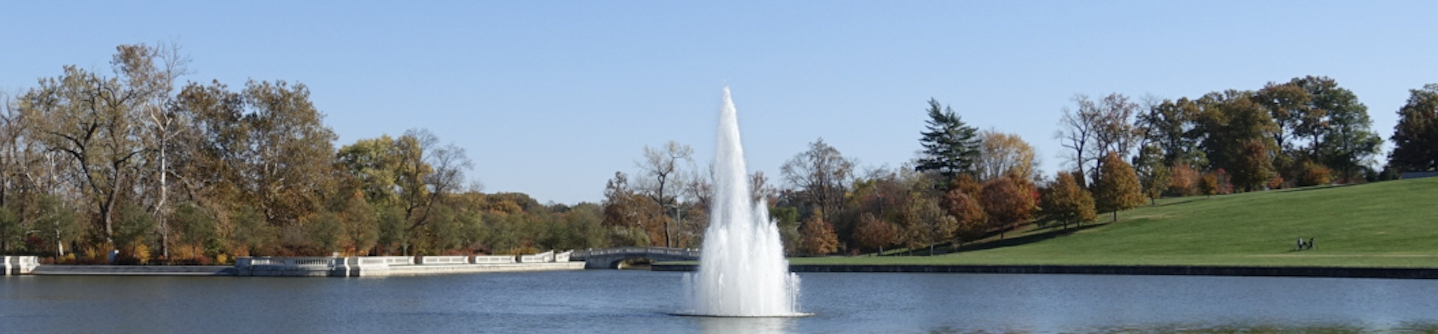
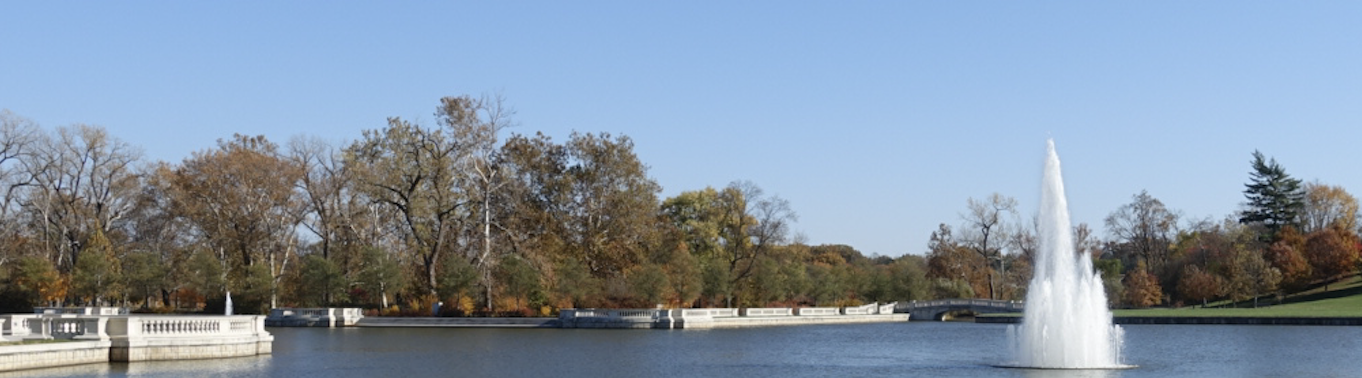
Edit website

diff --git a/index.html b/index.html
@@ -739,7 +739,7 @@
     
     background-image:
     linear-gradient(rgba(0, 0, 0, 0.1), rgba(0, 0, 0, 0.1)), 
-    url('https://Jihyuncindyhur.github.io/media/headers/new_header_1.png');
+    url('https://Jihyuncindyhur.github.io/media/headers/new_header.png');
     
     ;">
     <div class="container" style="text-align: center;">
@@ -1640,33 +1640,13 @@
 
 
 
-
-
-
   
 
 
-<div class="media stream-item">
-  <div class="media-body">
+<div class="card-simple">
 
-    <div class="section-subheading article-title mb-0 mt-0">
-      <a href="/post/bouldering/" >Won First Place at Bouldering Competition!</a>
-    </div>
-
+  
     
-    <a href="/post/bouldering/"  class="summary-link">
-      <div class="article-style">
-        I won first place at 2019 Bouldering Competition held by Seoul National University.
-      </div>
-    </a>
-    
-
-    <div class="stream-meta article-metadata">
-
-      
-
-      
-        
 
 
 <div class="article-metadata">
@@ -1718,23 +1698,33 @@
 
 </div>
 
-      
+  
+
+  
+  
+  
+  
+  
+  
+  <a href="/post/bouldering/">
+    <div class="img-hover-zoom"><img src="/post/bouldering/featured_hu33c299f5a165eabe6bcc301fe4ca496f_631963_e0418e63456a163d441b2376d726c35c.jpg" data-src="/post/bouldering/featured_hu33c299f5a165eabe6bcc301fe4ca496f_631963_808x455_fill_q90_lanczos_center.jpg" class="article-banner lazyload" alt="Won First Place at Bouldering Competition!"></div>
+  </a>
+  
+
+  <div class="section-subheading article-title mb-1 mt-3">
+    <a href="/post/bouldering/">Won First Place at Bouldering Competition!</a>
+  </div>
+
+  
+  <a href="/post/bouldering/" class="summary-link">
+    <div class="article-style">
+      <p>I won first place at 2019 Bouldering Competition held by Seoul National University.</p>
     </div>
+  </a>
+  
 
-    
+  
 
-  </div>
-  <div class="ml-3">
-    
-    
-    
-    
-    
-    <a href="/post/bouldering/" >
-      <img src="/post/bouldering/featured_hu33c299f5a165eabe6bcc301fe4ca496f_631963_8f33740746a42d2c3c013f5a75f06f2c.jpg" data-src="/post/bouldering/featured_hu33c299f5a165eabe6bcc301fe4ca496f_631963_150x0_resize_q90_lanczos.jpg" alt="Won First Place at Bouldering Competition!" class="lazyload">
-    </a>
-    
-  </div>
 </div>
 
     
@@ -1750,33 +1740,13 @@
 
 
 
-
-
-
   
 
 
-<div class="media stream-item">
-  <div class="media-body">
+<div class="card-simple">
 
-    <div class="section-subheading article-title mb-0 mt-0">
-      <a href="/post/abcdworkshop/" >Got accepted to attend ABCD workshop in Portland, OR!</a>
-    </div>
-
+  
     
-    <a href="/post/abcdworkshop/"  class="summary-link">
-      <div class="article-style">
-        I attended the ABCD workshop and presented my hackathon project.
-      </div>
-    </a>
-    
-
-    <div class="stream-meta article-metadata">
-
-      
-
-      
-        
 
 
 <div class="article-metadata">
@@ -1826,23 +1796,33 @@
 
 </div>
 
-      
+  
+
+  
+  
+  
+  
+  
+  
+  <a href="/post/abcdworkshop/">
+    <div class="img-hover-zoom"><img src="/post/abcdworkshop/featured_hu01e5380dc3971d31c01b5920aca15298_42797_b098a780203e26677b1e5676894d5ef5.jpg" data-src="/post/abcdworkshop/featured_hu01e5380dc3971d31c01b5920aca15298_42797_808x455_fill_q90_lanczos_center.jpg" class="article-banner lazyload" alt="Got accepted to attend ABCD workshop in Portland, OR!"></div>
+  </a>
+  
+
+  <div class="section-subheading article-title mb-1 mt-3">
+    <a href="/post/abcdworkshop/">Got accepted to attend ABCD workshop in Portland, OR!</a>
+  </div>
+
+  
+  <a href="/post/abcdworkshop/" class="summary-link">
+    <div class="article-style">
+      <p>I attended the ABCD workshop and presented my hackathon project.</p>
     </div>
+  </a>
+  
 
-    
+  
 
-  </div>
-  <div class="ml-3">
-    
-    
-    
-    
-    
-    <a href="/post/abcdworkshop/" >
-      <img src="/post/abcdworkshop/featured_hu01e5380dc3971d31c01b5920aca15298_42797_7e135e769a31776b43daa1cbbbab946d.jpg" data-src="/post/abcdworkshop/featured_hu01e5380dc3971d31c01b5920aca15298_42797_150x0_resize_q90_lanczos.jpg" alt="Got accepted to attend ABCD workshop in Portland, OR!" class="lazyload">
-    </a>
-    
-  </div>
 </div>
 
     
